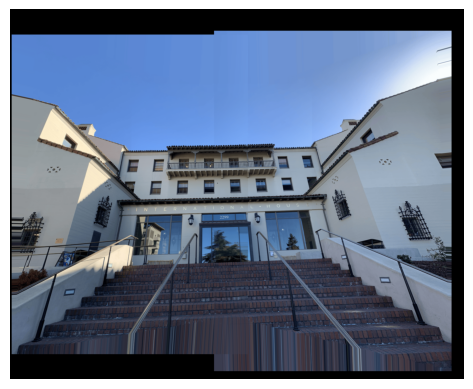
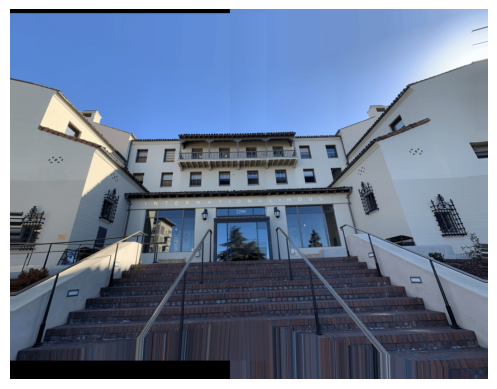
finish project 4

diff --git a/4/index.html b/4/index.html
@@ -254,49 +254,20 @@
           the pixel values from all images, using the total weight map to
           normalize the pixel intensities. By using this weight map, I got all
           the pixel values to a weighted average of all the overlapping images.
-          This produced a smooth, visually appealing transition between the
-          overlapping images.
+          This produced a smooth transition between the overlapping images.
+          After cropping the image to remove the black edges, I got this final
+          blended panorama.
         </p>
-        <div class="image-container">
-          <img
-            src="images/i-house-mosaic.png"
-            alt="Blended Panorama"
-            width="100%"
-          />
-          <p class="image-text">Final Blended Panorama</p>
-        </div>
+        <img
+          src="images/i-house-mosaic.png"
+          alt="Blended Panorama"
+          width="100%"
+        />
 
         <p>
-          I then did the exact same procedure for these three images of the cal
-          stadium during the homecoming game and the same thing for haas.
+          I then did the exact same procedure for these three images of haas and
+          the street next to it.
         </p>
-
-        <div class="images-container">
-          <div class="three-width-image-container">
-            <img
-              src="images/cal-left.png"
-              alt="Cal Stadium left"
-              width="100%"
-            />
-            <p class="image-text">Cal Stadium left image</p>
-          </div>
-          <div class="three-width-image-container">
-            <img
-              src="images/cal-middle.png"
-              alt="Cal Stadium middle"
-              width="100%"
-            />
-            <p class="image-text">Cal Stadium middle image</p>
-          </div>
-          <div class="three-width-image-container">
-            <img
-              src="images/cal-right.png"
-              alt="Cal Stadium right"
-              width="100%"
-            />
-            <p class="image-text">Cal Stadium right image</p>
-          </div>
-        </div>
 
         <div class="images-container">
           <div class="three-width-image-container">
@@ -312,19 +283,214 @@
             <p class="image-text">Haas right image</p>
           </div>
         </div>
+        <img src="images/haas-mosaic.png" alt="Haas Mosaic" width="100%" />
+
+        <div class="images-container">
+          <div class="three-width-image-container">
+            <img src="images/street-left.png" alt="Street left" width="100%" />
+            <p class="image-text">Street left image</p>
+          </div>
+          <div class="three-width-image-container">
+            <img
+              src="images/street-middle.png"
+              alt="Street middle"
+              width="100%"
+            />
+            <p class="image-text">Street middle image</p>
+          </div>
+          <div class="three-width-image-container">
+            <img
+              src="images/street-right.png"
+              alt="Street right"
+              width="100%"
+            />
+            <p class="image-text">Street right image</p>
+          </div>
+        </div>
+        <img src="images/street-mosaic.png" alt="Street Mosaic" width="100%" />
+
+        <h2>Part B: Feature Matching and Autostitching</h2>
+        <p>
+          To start implementing the autostitching, I used the sample code given
+          in the project to detect the harris interest points. This made me get
+          this result.
+        </p>
+        <img src="images/harris-points.png" alt="Harris Points" width="50%" />
+        <p>
+          As we can see, getting all the harris interest points results in a lot
+          of points. To reduce the number of points, I used the Adaptive
+          Non-Maximal Suppression algorithm to get the interest points that were
+          both spread out and had a high corner response. I did this by first
+          sorting the harris points by their strength. For each point, I then
+          found all points that were stronger than the current point, even after
+          mulitplying by a c_robust factor of 0.9. I stored the distance r_i to
+          the closest point in a list. This process can be described with the
+          following equation:
+        </p>
+        <img
+          src="images/equations/ri_equation.png"
+          alt="Ri Equation"
+          width="50%"
+        />
+        <p>
+          With this list of distances, I sorted it and select the stronger
+          points that were the furthest away from each other. For the amount of
+          points, I selected 500 as in the paper which resulted in the following
+          image.
+        </p>
+        <img src="images/anms-points.png" alt="ANMS Points" width="50%" />
+        <p>
+          The next step now was to get descriptors for the points in each image.
+          To do this, I looped over every 5th pixel around the image in a 36x36
+          grid to get a 8x8 descriptor for each point. I then normalized it by
+          subtracting the mean and dividing by the standard deviation of the
+          descriptor. This gave me descriptors that looked like this:
+        </p>
+        <div class="images-container">
+          <div class="image-container">
+            <img
+              src="images/descriptor_unnormalized.png"
+              alt="Descriptor 1"
+              width="100%"
+            />
+            <p class="image-text">Descriptor before normalization</p>
+          </div>
+          <div class="image-container">
+            <img src="images/descriptor3.png" alt="Descriptor 3" width="100%" />
+            <p class="image-text">Descriptor after normalization</p>
+          </div>
+        </div>
+
+        <img
+          src="images/descriptor_collection.png"
+          alt="Descriptor Collection"
+          width="100%"
+        />
+
+        <p>
+          After getting the descriptors, I then matched the descriptors between
+          the two images by first normalizing the descriptors and then computing
+          the euclidean distance between them. I could then sort the distances
+          so that I had a list of the the descriptors that were the most
+          similar. I then took the two first entries in this list which were the
+          first and second nearest neighbor and kept all the matches that
+          satisfied the Lowe's ratio test. This test was done by taking the
+          ratio of the distance between the first and second nearest neighbor to
+          make sure it was both a good and unique match. This gave me the
+          following matches:
+        </p>
+        <div class="images-container">
+          <div class="image-container">
+            <img
+              src="images/i-house-left-middle-matches.png"
+              alt="I House Left Middle Matches"
+              width="100%"
+            />
+            <p class="image-text">Matches between left and middle image</p>
+          </div>
+          <div class="image-container">
+            <img
+              src="images/i-house-middle-right-matches.png"
+              alt="I House Right Middle Matches"
+              width="100%"
+            />
+            <p class="image-text">Matches between right and middle image</p>
+          </div>
+        </div>
+
+        <p>
+          I now had the matches between the images, but as we see on the images
+          above, some of the matches are still off. To fix this, I implemented
+          the RANSAC algorithm to find the inliers in the matches. I did this by
+          first randomly selecting 4 matches and computing the homography matrix
+          between them. I then used this matrix to warp the points from the
+          first image to the second image and checked if the distance between
+          the warped points and the actual points were less than a threshold of
+          1 pixel away from each other. I then counted the amount of inliers and
+          kept the homography matrix that had the most inliers. I then ended up
+          with these inliers:
+        </p>
+        <div class="images-container">
+          <div class="image-container">
+            <img
+              src="images/i-house-left-middle-ransac.png"
+              alt="I House Left Middle RANSAC"
+              width="100%"
+            />
+            <p class="image-text">Inliers between left and middle image</p>
+          </div>
+          <div class="image-container">
+            <img
+              src="images/i-house-middle-right-ransac.png"
+              alt="I House Right Middle RANSAC"
+              width="100%"
+            />
+            <p class="image-text">Inliers between right and middle image</p>
+          </div>
+        </div>
+
+        <p>
+          With the inliers, I could now warp the images into the final mosaic.
+        </p>
+        <img
+          src="images/i-house-auto-mosaic.png"
+          alt="Auto Mosaic"
+          width="100%"
+        />
+        <div class="images-container">
+          <div class="image-container">
+            <img
+              src="images/i-house-auto-mosaic.png"
+              alt="Auto Mosaic"
+              width="100%"
+            />
+            <p class="image-text">Autostitched</p>
+          </div>
+          <div class="image-container">
+            <img
+              src="images/i-house-mosaic.png"
+              alt="Manual Mosaic"
+              width="100%"
+            />
+            <p class="image-text">Manually stitched</p>
+          </div>
+        </div>
 
         <div class="images-container">
           <div class="image-container">
             <img
-              src="images/cal-mosaic.png"
-              alt="Cal Stadium Mosaic"
+              src="images/haas-auto-mosaic.png"
+              alt="Haas Auto Mosaic"
               width="100%"
             />
-            <p class="image-text">Final Blended Panorama of Cal Stadium</p>
+            <p class="image-text">Haas Autostitched</p>
           </div>
           <div class="image-container">
-            <img src="images/haas-mosaic.png" alt="Haas Mosaic" width="100%" />
-            <p class="image-text">Final Blended Panorama of Haas</p>
+            <img
+              src="images/haas-mosaic.png"
+              alt="Haas Manual Mosaic"
+              width="100%"
+            />
+            <p class="image-text">Haas Manually stitched</p>
+          </div>
+        </div>
+
+        <div class="images-container">
+          <div class="image-container">
+            <img
+              src="images/street-auto-mosaic.png"
+              alt="Street Auto Mosaic"
+              width="100%"
+            />
+            <p class="image-text">Street Autostitched</p>
+          </div>
+          <div class="image-container">
+            <img
+              src="images/street-mosaic.png"
+              alt="Street Manual Mosaic"
+              width="100%"
+            />
+            <p class="image-text">Street Manually stitched</p>
           </div>
         </div>
       </section>
